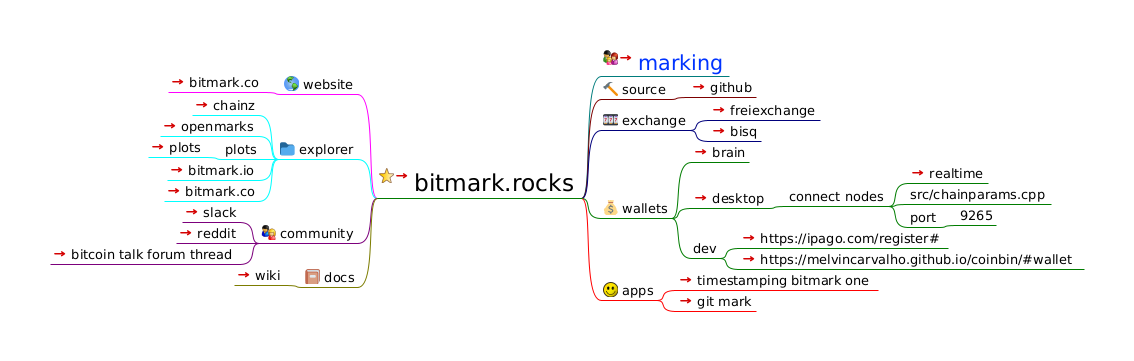
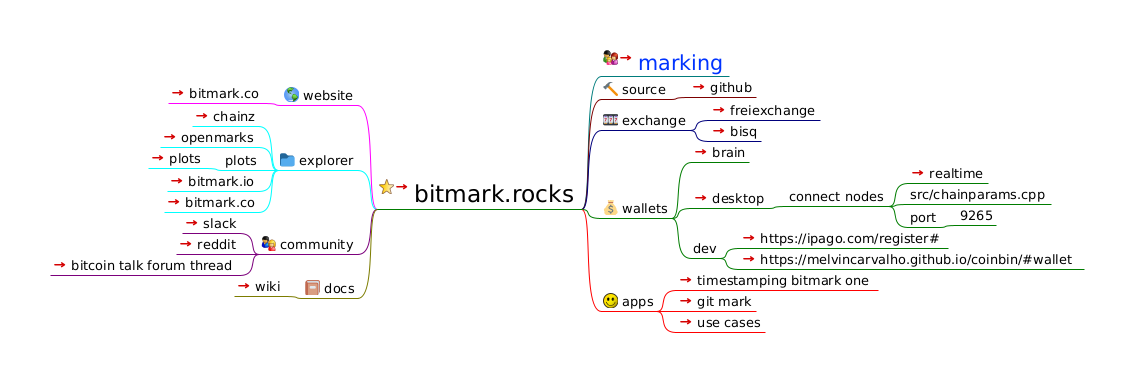
add use cases

Changed region(s): [[0.3395, 0.4266, 0.9568, 0.8837], [0.0309, 0.2133, 0.3395, 0.7922], [0.4938, 0.1219, 0.7407, 0.4875]]

diff --git a/index.html b/index.html
@@ -23,22 +23,22 @@
                    };
                };
           
-          --></script></head><body><h1>bitmark.rocks</h1><div style="width:96%;  padding:2%;  margin-bottom:10px;  border: 0px;  text-align:center;  vertical-align:center;"><img src="index.html_files/image.png" style="margin-bottom:10px; &#9;border: 0px; &#9;text-align:center; &#9;vertical-align:center;" alt="Imagemap" usemap="#fm_imagemap" /></div><map name="fm_imagemap" id="fm_imagemap"><area shape="rect" href="https://bitmark.rocks/" alt="bitmark.rocks" title="bitmark.rocks" coords="377,168,582,198" />
-<area shape="rect" href="#FMID_1060112625FM" alt="website" title="website" coords="282,76,358,94" />
-<area shape="rect" href="https://www.bitmark.io/" alt="bitmark.co" title="bitmark.co" coords="168,74,263,92" />
-<area shape="rect" href="#FMID_890451887FM" alt="explorer" title="explorer" coords="278,141,358,159" />
-<area shape="rect" href="https://chainz.cryptoid.info/marks/" alt="chainz" title="chainz" coords="192,97,259,115" />
-<area shape="rect" href="https://blockchain.openmarks.com/info" alt="openmarks" title="openmarks" coords="160,118,259,136" />
-<area shape="rect" href="#FMID_387892306FM" alt="plots" title="plots" coords="223,141,259,159" />
-<area shape="rect" href="https://explorer.bitmark.co/plots.week/" alt="plots" title="plots" coords="148,139,204,157" />
-<area shape="rect" href="http://explorer.bitmark.io/tx/dd43727725bd2b30c657d9f5edeef6074855c026d98d8a9d031280ea8aa6c7ee" alt="bitmark.io" title="bitmark.io" coords="167,162,259,180" />
-<area shape="rect" href="https://explorer.bitmark.co/" alt="bitmark.co" title="bitmark.co" coords="164,183,259,201" />
-<area shape="rect" href="#FMID_284041985FM" alt="community" title="community" coords="259,225,358,243" />
-<area shape="rect" href="https://projectbitmark.slack.com/" alt="slack" title="slack" coords="182,204,240,222" />
-<area shape="rect" href="https://www.reddit.com/r/Bitmark/" alt="reddit" title="reddit" coords="176,225,240,243" />
-<area shape="rect" href="https://bitcointalk.org/index.php?topic=3169983.0" alt="bitcoin talk forum thread" title="bitcoin talk forum thread" coords="50,246,240,264" />
-<area shape="rect" href="#FMID_53419768FM" alt="docs" title="docs" coords="303,269,358,287" />
-<area shape="rect" href="https://github.com/project-bitmark/bitmark/wiki" alt="wiki" title="wiki" coords="234,267,284,285" />
+          --></script></head><body><h1>bitmark.rocks</h1><div style="width:96%;  padding:2%;  margin-bottom:10px;  border: 0px;  text-align:center;  vertical-align:center;"><img src="index.html_files/image.png" style="margin-bottom:10px; &#9;border: 0px; &#9;text-align:center; &#9;vertical-align:center;" alt="Imagemap" usemap="#fm_imagemap" /></div><map name="fm_imagemap" id="fm_imagemap"><area shape="rect" href="https://bitmark.rocks/" alt="bitmark.rocks" title="bitmark.rocks" coords="377,179,582,209" />
+<area shape="rect" href="#FMID_1060112625FM" alt="website" title="website" coords="282,87,358,105" />
+<area shape="rect" href="https://www.bitmark.io/" alt="bitmark.co" title="bitmark.co" coords="168,85,263,103" />
+<area shape="rect" href="#FMID_890451887FM" alt="explorer" title="explorer" coords="278,152,358,170" />
+<area shape="rect" href="https://chainz.cryptoid.info/marks/" alt="chainz" title="chainz" coords="192,108,259,126" />
+<area shape="rect" href="https://blockchain.openmarks.com/info" alt="openmarks" title="openmarks" coords="160,129,259,147" />
+<area shape="rect" href="#FMID_387892306FM" alt="plots" title="plots" coords="223,152,259,170" />
+<area shape="rect" href="https://explorer.bitmark.co/plots.week/" alt="plots" title="plots" coords="148,150,204,168" />
+<area shape="rect" href="http://explorer.bitmark.io/tx/dd43727725bd2b30c657d9f5edeef6074855c026d98d8a9d031280ea8aa6c7ee" alt="bitmark.io" title="bitmark.io" coords="167,173,259,191" />
+<area shape="rect" href="https://explorer.bitmark.co/" alt="bitmark.co" title="bitmark.co" coords="164,194,259,212" />
+<area shape="rect" href="#FMID_284041985FM" alt="community" title="community" coords="259,236,358,254" />
+<area shape="rect" href="https://projectbitmark.slack.com/" alt="slack" title="slack" coords="182,215,240,233" />
+<area shape="rect" href="https://www.reddit.com/r/Bitmark/" alt="reddit" title="reddit" coords="176,236,240,254" />
+<area shape="rect" href="https://bitcointalk.org/index.php?topic=3169983.0" alt="bitcoin talk forum thread" title="bitcoin talk forum thread" coords="50,257,240,275" />
+<area shape="rect" href="#FMID_53419768FM" alt="docs" title="docs" coords="303,280,358,298" />
+<area shape="rect" href="https://github.com/project-bitmark/bitmark/wiki" alt="wiki" title="wiki" coords="234,278,284,296" />
 <area shape="rect" href="https://github.com/project-bitmark/marking/wiki" alt="marking" title="marking" coords="601,50,729,76" />
 <area shape="rect" href="#FMID_1630806653FM" alt="source" title="source" coords="601,81,670,99" />
 <area shape="rect" href="https://github.com/project-bitmark/bitmark" alt="github" title="github" coords="689,79,756,97" />
@@ -56,10 +56,11 @@
 <area shape="rect" href="#FMID_1590517788FM" alt="dev" title="dev" coords="691,240,720,258" />
 <area shape="rect" href="https://ipago.com/register#" alt="https://ipago.com/register#" title="https://ipago.com/register#" coords="739,230,948,248" />
 <area shape="rect" href="https://melvincarvalho.github.io/coinbin/#wallet" alt="https://melvincarvalho.github.io/coinbin ..." title="https://melvincarvalho.github.io/coinbin ..." coords="739,251,1084,269" />
-<area shape="rect" href="#FMID_625031095FM" alt="apps" title="apps" coords="601,282,657,300" />
+<area shape="rect" href="#FMID_625031095FM" alt="apps" title="apps" coords="601,293,657,311" />
 <area shape="rect" href="timestamping.html" alt="timestamping bitmark one" title="timestamping bitmark one" coords="676,272,878,290" />
 <area shape="rect" href="https://git-mark.com/" alt="git mark" title="git mark" coords="676,293,756,311" />
+<area shape="rect" href="https://github.com/project-bitmark/use-cases/issues" alt="use cases" title="use cases" coords="676,314,765,332" />
 </map>
 
-<div class="node"><img src="index.html_files/hide.png" class="hideshow" alt="hide" onClick="toggle(&quot;N65543&quot;)" id="imgN65543" /><img src="index.html_files/icons/bookmark.svg" alt="bookmark" /> <a id="FMID_9134036FM" /><div class="nodecontent" style="color:#000000;font-size:150%;"><a href="https://bitmark.rocks/">bitmark.rocks</a> <a href="https://bitmark.rocks/"><img src="index.html_files/ilink.png" alt="User Link" style="border-width:0" /></a></div><div class="content" id="N65543"><div class="node"><img src="index.html_files/hide.png" class="hideshow" alt="hide" onClick="toggle(&quot;N66445&quot;)" id="imgN66445" /><img src="index.html_files/icons/internet.svg" alt="internet" /> <a id="FMID_1060112625FM" /><div class="nodecontent" style="color:#000000;font-size:83%;">website</div><div class="content" id="N66445"><div class="node"><img src="index.html_files/leaf.png" class="hideshow" alt="leaf" /><a id="FMID_909182614FM" /><div class="nodecontent" style="color:#000000;font-size:83%;"><a href="https://www.bitmark.io/">bitmark.co</a> <a href="https://www.bitmark.io/"><img src="index.html_files/ilink.png" alt="User Link" style="border-width:0" /></a></div></div></div></div><div class="node"><img src="index.html_files/hide.png" class="hideshow" alt="hide" onClick="toggle(&quot;N66524&quot;)" id="imgN66524" /><img src="index.html_files/icons/emoji-1F4C1.png" alt="emoji-1F4C1" /> <a id="FMID_890451887FM" /><div class="nodecontent" style="color:#000000;font-size:83%;">explorer</div><div class="content" id="N66524"><div class="node"><img src="index.html_files/leaf.png" class="hideshow" alt="leaf" /><a id="FMID_1364530620FM" /><div class="nodecontent" style="color:#000000;font-size:83%;"><a href="https://chainz.cryptoid.info/marks/">chainz</a> <a href="https://chainz.cryptoid.info/marks/"><img src="index.html_files/ilink.png" alt="User Link" style="border-width:0" /></a></div></div><div class="node"><img src="index.html_files/leaf.png" class="hideshow" alt="leaf" /><a id="FMID_603828367FM" /><div class="nodecontent" style="color:#000000;font-size:83%;"><a href="https://blockchain.openmarks.com/info">openmarks</a> <a href="https://blockchain.openmarks.com/info"><img src="index.html_files/ilink.png" alt="User Link" style="border-width:0" /></a></div></div><div class="node"><img src="index.html_files/hide.png" class="hideshow" alt="hide" onClick="toggle(&quot;N66639&quot;)" id="imgN66639" /><a id="FMID_387892306FM" /><div class="nodecontent" style="color:#000000;font-size:83%;">plots</div><div class="content" id="N66639"><div class="node"><img src="index.html_files/leaf.png" class="hideshow" alt="leaf" /><a id="FMID_696116134FM" /><div class="nodecontent" style="color:#000000;font-size:83%;"><a href="https://explorer.bitmark.co/plots.week/">plots</a> <a href="https://explorer.bitmark.co/plots.week/"><img src="index.html_files/ilink.png" alt="User Link" style="border-width:0" /></a></div></div></div></div><div class="node"><img src="index.html_files/leaf.png" class="hideshow" alt="leaf" /><a id="FMID_464046041FM" /><div class="nodecontent" style="color:#000000;font-size:83%;"><a href="http://explorer.bitmark.io/tx/dd43727725bd2b30c657d9f5edeef6074855c026d98d8a9d031280ea8aa6c7ee">bitmark.io</a> <a href="http://explorer.bitmark.io/tx/dd43727725bd2b30c657d9f5edeef6074855c026d98d8a9d031280ea8aa6c7ee"><img src="index.html_files/ilink.png" alt="User Link" style="border-width:0" /></a></div></div><div class="node"><img src="index.html_files/leaf.png" class="hideshow" alt="leaf" /><a id="FMID_281551312FM" /><div class="nodecontent" style="color:#000000;font-size:83%;"><a href="https://explorer.bitmark.co/">bitmark.co</a> <a href="https://explorer.bitmark.co/"><img src="index.html_files/ilink.png" alt="User Link" style="border-width:0" /></a></div></div></div></div><div class="node"><img src="index.html_files/hide.png" class="hideshow" alt="hide" onClick="toggle(&quot;N66787&quot;)" id="imgN66787" /><img src="index.html_files/icons/fema.svg" alt="fema" /> <a id="FMID_284041985FM" /><div class="nodecontent" style="color:#000000;font-size:83%;">community</div><div class="content" id="N66787"><div class="node"><img src="index.html_files/leaf.png" class="hideshow" alt="leaf" /><a id="FMID_1745960941FM" /><div class="nodecontent" style="color:#000000;font-size:83%;"><a href="https://projectbitmark.slack.com/">slack</a> <a href="https://projectbitmark.slack.com/"><img src="index.html_files/ilink.png" alt="User Link" style="border-width:0" /></a></div></div><div class="node"><img src="index.html_files/leaf.png" class="hideshow" alt="leaf" /><a id="FMID_262634047FM" /><div class="nodecontent" style="color:#000000;font-size:83%;"><a href="https://www.reddit.com/r/Bitmark/">reddit</a> <a href="https://www.reddit.com/r/Bitmark/"><img src="index.html_files/ilink.png" alt="User Link" style="border-width:0" /></a></div></div><div class="node"><img src="index.html_files/leaf.png" class="hideshow" alt="leaf" /><a id="FMID_724372135FM" /><div class="nodecontent" style="color:#000000;font-size:83%;"><a href="https://bitcointalk.org/index.php?topic=3169983.0">bitcoin talk forum thread</a> <a href="https://bitcointalk.org/index.php?topic=3169983.0"><img src="index.html_files/ilink.png" alt="User Link" style="border-width:0" /></a></div></div></div></div><div class="node"><img src="index.html_files/hide.png" class="hideshow" alt="hide" onClick="toggle(&quot;N66940&quot;)" id="imgN66940" /><img src="index.html_files/icons/emoji-1F4D4.png" alt="emoji-1F4D4" /> <a id="FMID_53419768FM" /><div class="nodecontent" style="color:#000000;font-size:83%;">docs</div><div class="content" id="N66940"><div class="node"><img src="index.html_files/leaf.png" class="hideshow" alt="leaf" /><a id="FMID_427769929FM" /><div class="nodecontent" style="color:#000000;font-size:83%;"><a href="https://github.com/project-bitmark/bitmark/wiki">wiki</a> <a href="https://github.com/project-bitmark/bitmark/wiki"><img src="index.html_files/ilink.png" alt="User Link" style="border-width:0" /></a></div></div></div></div><div class="node"><img src="index.html_files/leaf.png" class="hideshow" alt="leaf" /><img src="index.html_files/icons/family.svg" alt="family" /> <a id="FMID_525386330FM" /><div class="nodecontent" style="color:#0033ff;font-size:133%;"><a href="https://github.com/project-bitmark/marking/wiki">marking</a> <a href="https://github.com/project-bitmark/marking/wiki"><img src="index.html_files/ilink.png" alt="User Link" style="border-width:0" /></a></div></div><div class="node"><img src="index.html_files/hide.png" class="hideshow" alt="hide" onClick="toggle(&quot;N67063&quot;)" id="imgN67063" /><img src="index.html_files/icons/emoji-1F528.png" alt="emoji-1F528" /> <a id="FMID_1630806653FM" /><div class="nodecontent" style="color:#000000;font-size:83%;">source</div><div class="content" id="N67063"><div class="node"><img src="index.html_files/leaf.png" class="hideshow" alt="leaf" /><a id="FMID_1135958046FM" /><div class="nodecontent" style="color:#000000;font-size:83%;"><a href="https://github.com/project-bitmark/bitmark">github</a> <a href="https://github.com/project-bitmark/bitmark"><img src="index.html_files/ilink.png" alt="User Link" style="border-width:0" /></a></div></div></div></div><div class="node"><img src="index.html_files/hide.png" class="hideshow" alt="hide" onClick="toggle(&quot;N67142&quot;)" id="imgN67142" /><img src="index.html_files/icons/emoji-1F3B0.png" alt="emoji-1F3B0" /> <a id="FMID_1068324254FM" /><div class="nodecontent" style="color:#000000;font-size:83%;">exchange</div><div class="content" id="N67142"><div class="node"><img src="index.html_files/leaf.png" class="hideshow" alt="leaf" /><a id="FMID_1824557321FM" /><div class="nodecontent" style="color:#000000;font-size:83%;"><a href="https://freiexchange.com/market/BTM/BTC">freiexchange</a> <a href="https://freiexchange.com/market/BTM/BTC"><img src="index.html_files/ilink.png" alt="User Link" style="border-width:0" /></a></div></div><div class="node"><img src="index.html_files/leaf.png" class="hideshow" alt="leaf" /><a id="FMID_1737179929FM" /><div class="nodecontent" style="color:#000000;font-size:83%;"><a href="https://bisq.network/">bisq</a> <a href="https://bisq.network/"><img src="index.html_files/ilink.png" alt="User Link" style="border-width:0" /></a></div></div></div></div><div class="node"><img src="index.html_files/hide.png" class="hideshow" alt="hide" onClick="toggle(&quot;N67258&quot;)" id="imgN67258" /><img src="index.html_files/icons/emoji-1F4B0.png" alt="emoji-1F4B0" /> <a id="FMID_1383026871FM" /><div class="nodecontent" style="color:#000000;font-size:83%;">wallets</div><div class="content" id="N67258"><div class="node"><img src="index.html_files/leaf.png" class="hideshow" alt="leaf" /><a id="FMID_383771544FM" /><div class="nodecontent" style="color:#000000;font-size:83%;"><a href="https://project-bitmark.github.io/brain/">brain</a> <a href="https://project-bitmark.github.io/brain/"><img src="index.html_files/ilink.png" alt="User Link" style="border-width:0" /></a></div></div><div class="node"><img src="index.html_files/hide.png" class="hideshow" alt="hide" onClick="toggle(&quot;N67336&quot;)" id="imgN67336" /><a id="FMID_1376545695FM" /><div class="nodecontent" style="color:#000000;font-size:83%;"><a href="https://github.com/project-bitmark/bitmark/releases/tag/v0.9.7.2">desktop</a> <a href="https://github.com/project-bitmark/bitmark/releases/tag/v0.9.7.2"><img src="index.html_files/ilink.png" alt="User Link" style="border-width:0" /></a></div><div class="content" id="N67336"><div class="node"><img src="index.html_files/hide.png" class="hideshow" alt="hide" onClick="toggle(&quot;N67372&quot;)" id="imgN67372" /><a id="FMID_335702249FM" /><div class="nodecontent" style="color:#000000;font-size:83%;">connect nodes</div><div class="content" id="N67372"><div class="node"><img src="index.html_files/leaf.png" class="hideshow" alt="leaf" /><a id="FMID_1534178807FM" /><div class="nodecontent" style="color:#000000;font-size:83%;"><a href="https://chainetics.com/bitmark-nodes.php">realtime</a> <a href="https://chainetics.com/bitmark-nodes.php"><img src="index.html_files/ilink.png" alt="User Link" style="border-width:0" /></a></div></div><div class="node"><img src="index.html_files/leaf.png" class="hideshow" alt="leaf" /><a id="FMID_1040641396FM" /><div class="nodecontent" style="color:#000000;font-size:83%;">src/chainparams.cpp</div></div><div class="node"><img src="index.html_files/hide.png" class="hideshow" alt="hide" onClick="toggle(&quot;N67480&quot;)" id="imgN67480" /><a id="FMID_1609171146FM" /><div class="nodecontent" style="color:#000000;font-size:83%;">port</div><div class="content" id="N67480"><div class="node"><img src="index.html_files/leaf.png" class="hideshow" alt="leaf" /><a id="FMID_1214551580FM" /><div class="nodecontent" style="color:#000000;font-size:83%;">9265</div></div></div></div></div></div></div></div><div class="node"><img src="index.html_files/hide.png" class="hideshow" alt="hide" onClick="toggle(&quot;N67554&quot;)" id="imgN67554" /><a id="FMID_1590517788FM" /><div class="nodecontent" style="color:#000000;font-size:83%;">dev</div><div class="content" id="N67554"><div class="node"><img src="index.html_files/leaf.png" class="hideshow" alt="leaf" /><a id="FMID_1289155073FM" /><div class="nodecontent" style="color:#000000;font-size:83%;"><a href="https://ipago.com/register#">https://ipago.com/register#</a> <a href="https://ipago.com/register#"><img src="index.html_files/ilink.png" alt="User Link" style="border-width:0" /></a></div></div><div class="node"><img src="index.html_files/leaf.png" class="hideshow" alt="leaf" /><a id="FMID_884134542FM" /><div class="nodecontent" style="color:#000000;font-size:83%;"><a href="https://melvincarvalho.github.io/coinbin/#wallet">https://melvincarvalho.github.io/coinbin/#wallet</a> <a href="https://melvincarvalho.github.io/coinbin/#wallet"><img src="index.html_files/ilink.png" alt="User Link" style="border-width:0" /></a></div></div></div></div></div></div><div class="node"><img src="index.html_files/hide.png" class="hideshow" alt="hide" onClick="toggle(&quot;N67665&quot;)" id="imgN67665" /><img src="index.html_files/icons/ksmiletris.svg" alt="ksmiletris" /> <a id="FMID_625031095FM" /><div class="nodecontent" style="color:#000000;font-size:83%;">apps</div><div class="content" id="N67665"><div class="node"><img src="index.html_files/leaf.png" class="hideshow" alt="leaf" /><a id="FMID_669655322FM" /><div class="nodecontent" style="color:#000000;font-size:83%;"><a href="timestamping.html">timestamping bitmark one</a> <a href="timestamping.html"><img src="index.html_files/ilink.png" alt="User Link" style="border-width:0" /></a></div></div><div class="node"><img src="index.html_files/leaf.png" class="hideshow" alt="leaf" /><a id="FMID_569224008FM" /><div class="nodecontent" style="color:#000000;font-size:83%;"><a href="https://git-mark.com/">git mark</a> <a href="https://git-mark.com/"><img src="index.html_files/ilink.png" alt="User Link" style="border-width:0" /></a></div></div></div></div></div></div>
+<div class="node"><img src="index.html_files/hide.png" class="hideshow" alt="hide" onClick="toggle(&quot;N65543&quot;)" id="imgN65543" /><img src="index.html_files/icons/bookmark.svg" alt="bookmark" /> <a id="FMID_9134036FM" /><div class="nodecontent" style="color:#000000;font-size:150%;"><a href="https://bitmark.rocks/">bitmark.rocks</a> <a href="https://bitmark.rocks/"><img src="index.html_files/ilink.png" alt="User Link" style="border-width:0" /></a></div><div class="content" id="N65543"><div class="node"><img src="index.html_files/hide.png" class="hideshow" alt="hide" onClick="toggle(&quot;N66445&quot;)" id="imgN66445" /><img src="index.html_files/icons/internet.svg" alt="internet" /> <a id="FMID_1060112625FM" /><div class="nodecontent" style="color:#000000;font-size:83%;">website</div><div class="content" id="N66445"><div class="node"><img src="index.html_files/leaf.png" class="hideshow" alt="leaf" /><a id="FMID_909182614FM" /><div class="nodecontent" style="color:#000000;font-size:83%;"><a href="https://www.bitmark.io/">bitmark.co</a> <a href="https://www.bitmark.io/"><img src="index.html_files/ilink.png" alt="User Link" style="border-width:0" /></a></div></div></div></div><div class="node"><img src="index.html_files/hide.png" class="hideshow" alt="hide" onClick="toggle(&quot;N66524&quot;)" id="imgN66524" /><img src="index.html_files/icons/emoji-1F4C1.png" alt="emoji-1F4C1" /> <a id="FMID_890451887FM" /><div class="nodecontent" style="color:#000000;font-size:83%;">explorer</div><div class="content" id="N66524"><div class="node"><img src="index.html_files/leaf.png" class="hideshow" alt="leaf" /><a id="FMID_1364530620FM" /><div class="nodecontent" style="color:#000000;font-size:83%;"><a href="https://chainz.cryptoid.info/marks/">chainz</a> <a href="https://chainz.cryptoid.info/marks/"><img src="index.html_files/ilink.png" alt="User Link" style="border-width:0" /></a></div></div><div class="node"><img src="index.html_files/leaf.png" class="hideshow" alt="leaf" /><a id="FMID_603828367FM" /><div class="nodecontent" style="color:#000000;font-size:83%;"><a href="https://blockchain.openmarks.com/info">openmarks</a> <a href="https://blockchain.openmarks.com/info"><img src="index.html_files/ilink.png" alt="User Link" style="border-width:0" /></a></div></div><div class="node"><img src="index.html_files/hide.png" class="hideshow" alt="hide" onClick="toggle(&quot;N66639&quot;)" id="imgN66639" /><a id="FMID_387892306FM" /><div class="nodecontent" style="color:#000000;font-size:83%;">plots</div><div class="content" id="N66639"><div class="node"><img src="index.html_files/leaf.png" class="hideshow" alt="leaf" /><a id="FMID_696116134FM" /><div class="nodecontent" style="color:#000000;font-size:83%;"><a href="https://explorer.bitmark.co/plots.week/">plots</a> <a href="https://explorer.bitmark.co/plots.week/"><img src="index.html_files/ilink.png" alt="User Link" style="border-width:0" /></a></div></div></div></div><div class="node"><img src="index.html_files/leaf.png" class="hideshow" alt="leaf" /><a id="FMID_464046041FM" /><div class="nodecontent" style="color:#000000;font-size:83%;"><a href="http://explorer.bitmark.io/tx/dd43727725bd2b30c657d9f5edeef6074855c026d98d8a9d031280ea8aa6c7ee">bitmark.io</a> <a href="http://explorer.bitmark.io/tx/dd43727725bd2b30c657d9f5edeef6074855c026d98d8a9d031280ea8aa6c7ee"><img src="index.html_files/ilink.png" alt="User Link" style="border-width:0" /></a></div></div><div class="node"><img src="index.html_files/leaf.png" class="hideshow" alt="leaf" /><a id="FMID_281551312FM" /><div class="nodecontent" style="color:#000000;font-size:83%;"><a href="https://explorer.bitmark.co/">bitmark.co</a> <a href="https://explorer.bitmark.co/"><img src="index.html_files/ilink.png" alt="User Link" style="border-width:0" /></a></div></div></div></div><div class="node"><img src="index.html_files/hide.png" class="hideshow" alt="hide" onClick="toggle(&quot;N66787&quot;)" id="imgN66787" /><img src="index.html_files/icons/fema.svg" alt="fema" /> <a id="FMID_284041985FM" /><div class="nodecontent" style="color:#000000;font-size:83%;">community</div><div class="content" id="N66787"><div class="node"><img src="index.html_files/leaf.png" class="hideshow" alt="leaf" /><a id="FMID_1745960941FM" /><div class="nodecontent" style="color:#000000;font-size:83%;"><a href="https://projectbitmark.slack.com/">slack</a> <a href="https://projectbitmark.slack.com/"><img src="index.html_files/ilink.png" alt="User Link" style="border-width:0" /></a></div></div><div class="node"><img src="index.html_files/leaf.png" class="hideshow" alt="leaf" /><a id="FMID_262634047FM" /><div class="nodecontent" style="color:#000000;font-size:83%;"><a href="https://www.reddit.com/r/Bitmark/">reddit</a> <a href="https://www.reddit.com/r/Bitmark/"><img src="index.html_files/ilink.png" alt="User Link" style="border-width:0" /></a></div></div><div class="node"><img src="index.html_files/leaf.png" class="hideshow" alt="leaf" /><a id="FMID_724372135FM" /><div class="nodecontent" style="color:#000000;font-size:83%;"><a href="https://bitcointalk.org/index.php?topic=3169983.0">bitcoin talk forum thread</a> <a href="https://bitcointalk.org/index.php?topic=3169983.0"><img src="index.html_files/ilink.png" alt="User Link" style="border-width:0" /></a></div></div></div></div><div class="node"><img src="index.html_files/hide.png" class="hideshow" alt="hide" onClick="toggle(&quot;N66940&quot;)" id="imgN66940" /><img src="index.html_files/icons/emoji-1F4D4.png" alt="emoji-1F4D4" /> <a id="FMID_53419768FM" /><div class="nodecontent" style="color:#000000;font-size:83%;">docs</div><div class="content" id="N66940"><div class="node"><img src="index.html_files/leaf.png" class="hideshow" alt="leaf" /><a id="FMID_427769929FM" /><div class="nodecontent" style="color:#000000;font-size:83%;"><a href="https://github.com/project-bitmark/bitmark/wiki">wiki</a> <a href="https://github.com/project-bitmark/bitmark/wiki"><img src="index.html_files/ilink.png" alt="User Link" style="border-width:0" /></a></div></div></div></div><div class="node"><img src="index.html_files/leaf.png" class="hideshow" alt="leaf" /><img src="index.html_files/icons/family.svg" alt="family" /> <a id="FMID_525386330FM" /><div class="nodecontent" style="color:#0033ff;font-size:133%;"><a href="https://github.com/project-bitmark/marking/wiki">marking</a> <a href="https://github.com/project-bitmark/marking/wiki"><img src="index.html_files/ilink.png" alt="User Link" style="border-width:0" /></a></div></div><div class="node"><img src="index.html_files/hide.png" class="hideshow" alt="hide" onClick="toggle(&quot;N67063&quot;)" id="imgN67063" /><img src="index.html_files/icons/emoji-1F528.png" alt="emoji-1F528" /> <a id="FMID_1630806653FM" /><div class="nodecontent" style="color:#000000;font-size:83%;">source</div><div class="content" id="N67063"><div class="node"><img src="index.html_files/leaf.png" class="hideshow" alt="leaf" /><a id="FMID_1135958046FM" /><div class="nodecontent" style="color:#000000;font-size:83%;"><a href="https://github.com/project-bitmark/bitmark">github</a> <a href="https://github.com/project-bitmark/bitmark"><img src="index.html_files/ilink.png" alt="User Link" style="border-width:0" /></a></div></div></div></div><div class="node"><img src="index.html_files/hide.png" class="hideshow" alt="hide" onClick="toggle(&quot;N67142&quot;)" id="imgN67142" /><img src="index.html_files/icons/emoji-1F3B0.png" alt="emoji-1F3B0" /> <a id="FMID_1068324254FM" /><div class="nodecontent" style="color:#000000;font-size:83%;">exchange</div><div class="content" id="N67142"><div class="node"><img src="index.html_files/leaf.png" class="hideshow" alt="leaf" /><a id="FMID_1824557321FM" /><div class="nodecontent" style="color:#000000;font-size:83%;"><a href="https://freiexchange.com/market/BTM/BTC">freiexchange</a> <a href="https://freiexchange.com/market/BTM/BTC"><img src="index.html_files/ilink.png" alt="User Link" style="border-width:0" /></a></div></div><div class="node"><img src="index.html_files/leaf.png" class="hideshow" alt="leaf" /><a id="FMID_1737179929FM" /><div class="nodecontent" style="color:#000000;font-size:83%;"><a href="https://bisq.network/">bisq</a> <a href="https://bisq.network/"><img src="index.html_files/ilink.png" alt="User Link" style="border-width:0" /></a></div></div></div></div><div class="node"><img src="index.html_files/hide.png" class="hideshow" alt="hide" onClick="toggle(&quot;N67258&quot;)" id="imgN67258" /><img src="index.html_files/icons/emoji-1F4B0.png" alt="emoji-1F4B0" /> <a id="FMID_1383026871FM" /><div class="nodecontent" style="color:#000000;font-size:83%;">wallets</div><div class="content" id="N67258"><div class="node"><img src="index.html_files/leaf.png" class="hideshow" alt="leaf" /><a id="FMID_383771544FM" /><div class="nodecontent" style="color:#000000;font-size:83%;"><a href="https://project-bitmark.github.io/brain/">brain</a> <a href="https://project-bitmark.github.io/brain/"><img src="index.html_files/ilink.png" alt="User Link" style="border-width:0" /></a></div></div><div class="node"><img src="index.html_files/hide.png" class="hideshow" alt="hide" onClick="toggle(&quot;N67336&quot;)" id="imgN67336" /><a id="FMID_1376545695FM" /><div class="nodecontent" style="color:#000000;font-size:83%;"><a href="https://github.com/project-bitmark/bitmark/releases/tag/v0.9.7.2">desktop</a> <a href="https://github.com/project-bitmark/bitmark/releases/tag/v0.9.7.2"><img src="index.html_files/ilink.png" alt="User Link" style="border-width:0" /></a></div><div class="content" id="N67336"><div class="node"><img src="index.html_files/hide.png" class="hideshow" alt="hide" onClick="toggle(&quot;N67372&quot;)" id="imgN67372" /><a id="FMID_335702249FM" /><div class="nodecontent" style="color:#000000;font-size:83%;">connect nodes</div><div class="content" id="N67372"><div class="node"><img src="index.html_files/leaf.png" class="hideshow" alt="leaf" /><a id="FMID_1534178807FM" /><div class="nodecontent" style="color:#000000;font-size:83%;"><a href="https://chainetics.com/bitmark-nodes.php">realtime</a> <a href="https://chainetics.com/bitmark-nodes.php"><img src="index.html_files/ilink.png" alt="User Link" style="border-width:0" /></a></div></div><div class="node"><img src="index.html_files/leaf.png" class="hideshow" alt="leaf" /><a id="FMID_1040641396FM" /><div class="nodecontent" style="color:#000000;font-size:83%;">src/chainparams.cpp</div></div><div class="node"><img src="index.html_files/hide.png" class="hideshow" alt="hide" onClick="toggle(&quot;N67480&quot;)" id="imgN67480" /><a id="FMID_1609171146FM" /><div class="nodecontent" style="color:#000000;font-size:83%;">port</div><div class="content" id="N67480"><div class="node"><img src="index.html_files/leaf.png" class="hideshow" alt="leaf" /><a id="FMID_1214551580FM" /><div class="nodecontent" style="color:#000000;font-size:83%;">9265</div></div></div></div></div></div></div></div><div class="node"><img src="index.html_files/hide.png" class="hideshow" alt="hide" onClick="toggle(&quot;N67554&quot;)" id="imgN67554" /><a id="FMID_1590517788FM" /><div class="nodecontent" style="color:#000000;font-size:83%;">dev</div><div class="content" id="N67554"><div class="node"><img src="index.html_files/leaf.png" class="hideshow" alt="leaf" /><a id="FMID_1289155073FM" /><div class="nodecontent" style="color:#000000;font-size:83%;"><a href="https://ipago.com/register#">https://ipago.com/register#</a> <a href="https://ipago.com/register#"><img src="index.html_files/ilink.png" alt="User Link" style="border-width:0" /></a></div></div><div class="node"><img src="index.html_files/leaf.png" class="hideshow" alt="leaf" /><a id="FMID_884134542FM" /><div class="nodecontent" style="color:#000000;font-size:83%;"><a href="https://melvincarvalho.github.io/coinbin/#wallet">https://melvincarvalho.github.io/coinbin/#wallet</a> <a href="https://melvincarvalho.github.io/coinbin/#wallet"><img src="index.html_files/ilink.png" alt="User Link" style="border-width:0" /></a></div></div></div></div></div></div><div class="node"><img src="index.html_files/hide.png" class="hideshow" alt="hide" onClick="toggle(&quot;N67665&quot;)" id="imgN67665" /><img src="index.html_files/icons/ksmiletris.svg" alt="ksmiletris" /> <a id="FMID_625031095FM" /><div class="nodecontent" style="color:#000000;font-size:83%;">apps</div><div class="content" id="N67665"><div class="node"><img src="index.html_files/leaf.png" class="hideshow" alt="leaf" /><a id="FMID_669655322FM" /><div class="nodecontent" style="color:#000000;font-size:83%;"><a href="timestamping.html">timestamping bitmark one</a> <a href="timestamping.html"><img src="index.html_files/ilink.png" alt="User Link" style="border-width:0" /></a></div></div><div class="node"><img src="index.html_files/leaf.png" class="hideshow" alt="leaf" /><a id="FMID_569224008FM" /><div class="nodecontent" style="color:#000000;font-size:83%;"><a href="https://git-mark.com/">git mark</a> <a href="https://git-mark.com/"><img src="index.html_files/ilink.png" alt="User Link" style="border-width:0" /></a></div></div><div class="node"><img src="index.html_files/leaf.png" class="hideshow" alt="leaf" /><a id="FMID_1111945147FM" /><div class="nodecontent" style="color:#000000;font-size:83%;"><a href="https://github.com/project-bitmark/use-cases/issues">use cases</a> <a href="https://github.com/project-bitmark/use-cases/issues"><img src="index.html_files/ilink.png" alt="User Link" style="border-width:0" /></a></div></div></div></div></div></div>
 </body></html>

diff --git a/index.mm b/index.mm
@@ -134,6 +134,7 @@
 <edge STYLE="bezier" COLOR="#ff0000" WIDTH="thin"/>
 </node>
 <node TEXT="git mark" ID="ID_569224008" CREATED="1619343819563" MODIFIED="1619343832492" LINK="https://git-mark.com/"/>
+<node TEXT="use cases" ID="ID_1111945147" CREATED="1637495996323" MODIFIED="1637496013609" LINK="https://github.com/project-bitmark/use-cases/issues"/>
 </node>
 </node>
 </map>
